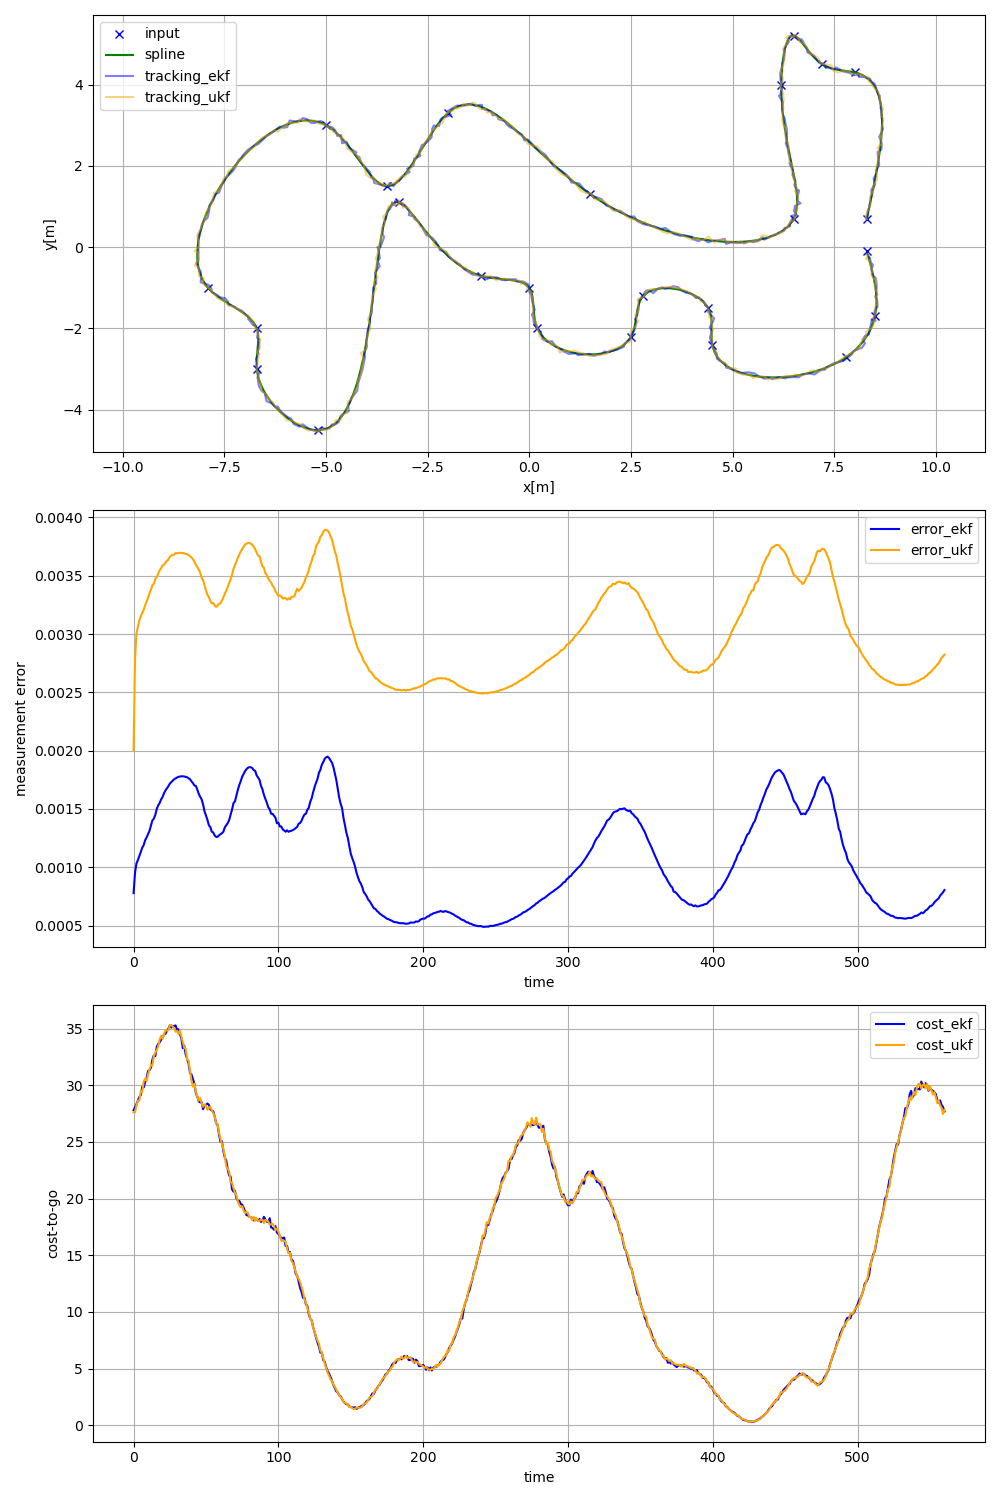
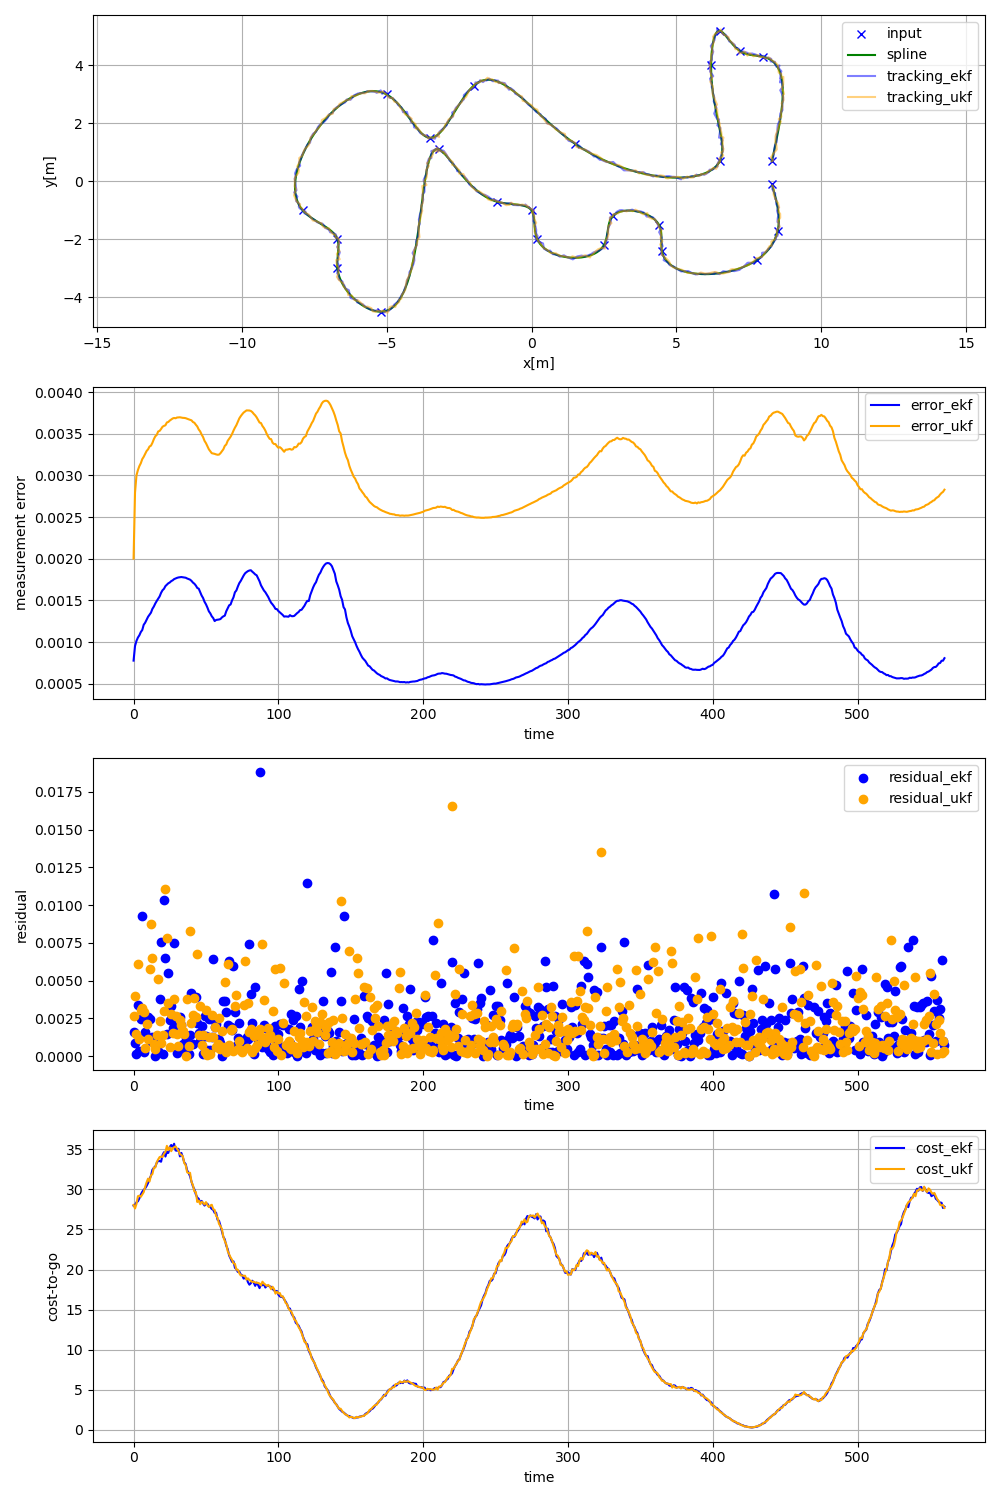
update plots of residual

diff --git a/LQG_simulator/run_simulation.py b/LQG_simulator/run_simulation.py
@@ -108,7 +108,7 @@ def closed_loop_prediction(desired_traj, landmarks, filter:Literal['EKF', 'KF']=
             plt.pause(0.0001)
  
         #input()
-    return t, traj, measurement_err, cost_to_go, time_steps
+    return traj_est, measurement_err, cost_to_go, time_steps
  
  
 def main():
@@ -127,9 +127,11 @@ def main():
     desired_traj = compute_traj(ax,ay)
     noise = 0.1
     dt = 1
-    _, traj_ukf, err_ukf, cost_ukf, time_steps = closed_loop_prediction(desired_traj,landmarks, filter='UKF', noise_coeff=noise, dt=dt)
-    _, traj_ekf, err_ekf, cost_ekf, time_steps = closed_loop_prediction(desired_traj,landmarks, filter='EKF', noise_coeff=noise, dt=dt)
- 
+    traj_ukf, err_ukf, cost_ukf, time_steps = closed_loop_prediction(desired_traj,landmarks, filter='UKF', noise_coeff=noise, dt=dt)
+    traj_ekf, err_ekf, cost_ekf, time_steps = closed_loop_prediction(desired_traj,landmarks, filter='EKF', noise_coeff=noise, dt=dt)
+
+    residual_ekf = (traj_ekf[1:,0] - desired_traj[:,0])**2 + (traj_ekf[1:,1] - desired_traj[:,1])**2
+    residual_ukf = (traj_ukf[1:,0] - desired_traj[:,0])**2 + (traj_ukf[1:,1] - desired_traj[:,1])**2
     # Display the trajectory that the mobile robot executed
     plot_dir = 'plots/'
     import os
@@ -137,7 +139,7 @@ def main():
     
     if show_animation:
         plt.close()
-        flg, axes = plt.subplots(3,1, figsize=(10, 15))
+        flg, axes = plt.subplots(4,1, figsize=(10, 15))
         # tracking paths
         axes[0].plot(ax, ay, "xb", label="input")
         # half transparency
@@ -156,17 +158,25 @@ def main():
         axes[1].set_xlabel("time")
         axes[1].set_ylabel("measurement error")
         axes[1].legend()
-        # cost
-        axes[2].plot(time_steps[:len(cost_ekf)], cost_ekf, label="cost_ekf", color='blue')
-        axes[2].plot(time_steps[:len(cost_ukf)], cost_ukf, label="cost_ukf", color='orange')
-        axes[2].grid(True)
-        axes[2].set_xlabel("time")    
-        axes[2].set_ylabel("cost-to-go")
+        # residual
+        axes[2].scatter(time_steps[:len(traj_ekf)], residual_ekf, label="residual_ekf", color='blue')
+        axes[2].scatter(time_steps[:len(traj_ukf)], residual_ukf, label="residual_ukf", color='orange')
+        axes[2].set_xlabel("time")
+        axes[2].set_ylabel("residual")
         axes[2].legend()
+        # cost
+        axes[3].plot(time_steps[:len(cost_ekf)], cost_ekf, label="cost_ekf", color='blue')
+        axes[3].plot(time_steps[:len(cost_ukf)], cost_ukf, label="cost_ukf", color='orange')
+        axes[3].grid(True)
+        axes[3].set_xlabel("time")    
+        axes[3].set_ylabel("cost-to-go")
+        axes[3].legend()
         
         plt.tight_layout()
         plt.savefig(plot_dir + f"performance_results-noise{noise}-dt{dt}.png")
         # plt.show()
+        
+        
  
  
 if __name__ == '__main__':

diff --git a/LQG_simulator/kinematics.py b/LQG_simulator/kinematics.py
@@ -158,84 +158,7 @@ class DifferentialDrive(object):
                   [0, dt]])
          
     return A, B
- 
-# def dLQR(F,Q,R,x,xf,dt=0.1):
-#     """
-#     Discrete-time linear quadratic regulator for a non-linear system.
- 
-#     Compute the optimal control given a nonlinear system, cost matrices, 
-#     a current state, and a final state.
-#     Compute the control variables that minimize the cumulative cost.
- 
-#     Solve for P using the dynamic programming method.
- 
-#     Assume that Qf = Q
- 
-#     Input:
-#       :param F: The dynamics class object (has forward and linearize functions 
-#                 implemented)
-#       :param Q: The state cost matrix Q -> np.array with shape (3,3)
-#       :param R: The input cost matrix R -> np.array with shape (2,2)
-#       :param x: The current state of the system x -> np.array with shape (3,)
-#       :param xf: The desired state of the system xf -> np.array with shape (3,)
-#       :param dt: The size of the timestep -> float
- 
-#     Output
-#       :return: u_t_star: Optimal action u for the current state 
-#                    [linear velocity of the car, angular velocity of the car]
-#                    [meters per second, radians per second]
-#     """
-#     # We want the system to stabilize at xf, 
-#     # so we let x - xf be the state.
-#     # Actual state - desired state
-#     x_error = x - xf
- 
-#     # Calculate the A and B matrices
-#     A, B = F.linearize(x, dt)
- 
-#     # Solutions to discrete LQR problems are obtained using dynamic 
-#     # programming.
-#     # The optimal solution is obtained recursively, starting at the last 
-#     # time step and working backwards.
-#     N = 50
- 
-#     # Create a list of N + 1 elements
-#     P = [None] * (N + 1)
- 
-#     # Assume Qf = Q
-#     Qf = Q
- 
-#     # 1. LQR via Dynamic Programming 
-#     P[N] = Qf 
- 
-#     # 2. For t = N, ..., 1
-#     for t in range(N, 0, -1):
- 
-#       # Discrete-time Algebraic Riccati equation to calculate the optimal 
-#       # state cost matrix
-#       P[t-1] = Q + A.T @ P[t] @ A - (A.T @ P[t] @ B) @ la.pinv(
-#                R + B.T @ P[t] @ B) @ (B.T @ P[t] @ A)      
- 
-#     # Create a list of N elements
-#     K = [None] * N
-#     u = [None] * N
- 
-#     # 3 and 4. For t = 0, ..., N - 1
-#     for t in range(N):
- 
-#       # Calculate the optimal feedback gain K_t
-#       K[t] = -la.pinv(R + B.T @ P[t+1] @ B) @ B.T @ P[t+1] @ A
- 
-#     for t in range(N):
-     
-#       # Calculate the optimal control input
-#       u[t] = K[t] @ x_error
- 
-#     # Optimal control input is u_t_star
-#     u_t_star = u[N-1]
-   
-#     # Return the optimal control inputs
-#     return u_t_star
+
  
 def get_R():
     """

diff --git a/LQG_simulator/sensors.py b/LQG_simulator/sensors.py
@@ -137,10 +137,14 @@ class LandmarkDetector(object):
             w_i = w[i] if w is not None else 0.0
 
             # Calculate the quadratic measurement - quadratic distance
-            y_i = (x_t - x_l_i)**2 +  (y_t - y_l_i)**2 + w_i
+            M = np.array( [[1, 0]
+                          ,[0, 1]])
+            x = np.array([x_t - x_l_i, y_t - y_l_i])
+            
+            y_i = x.T @ M @ x
 
             # Populate the predicted sensor observation vector      
-            y[i] = y_i
+            y[i] = y_i.item() + w_i
 
         return y
     
